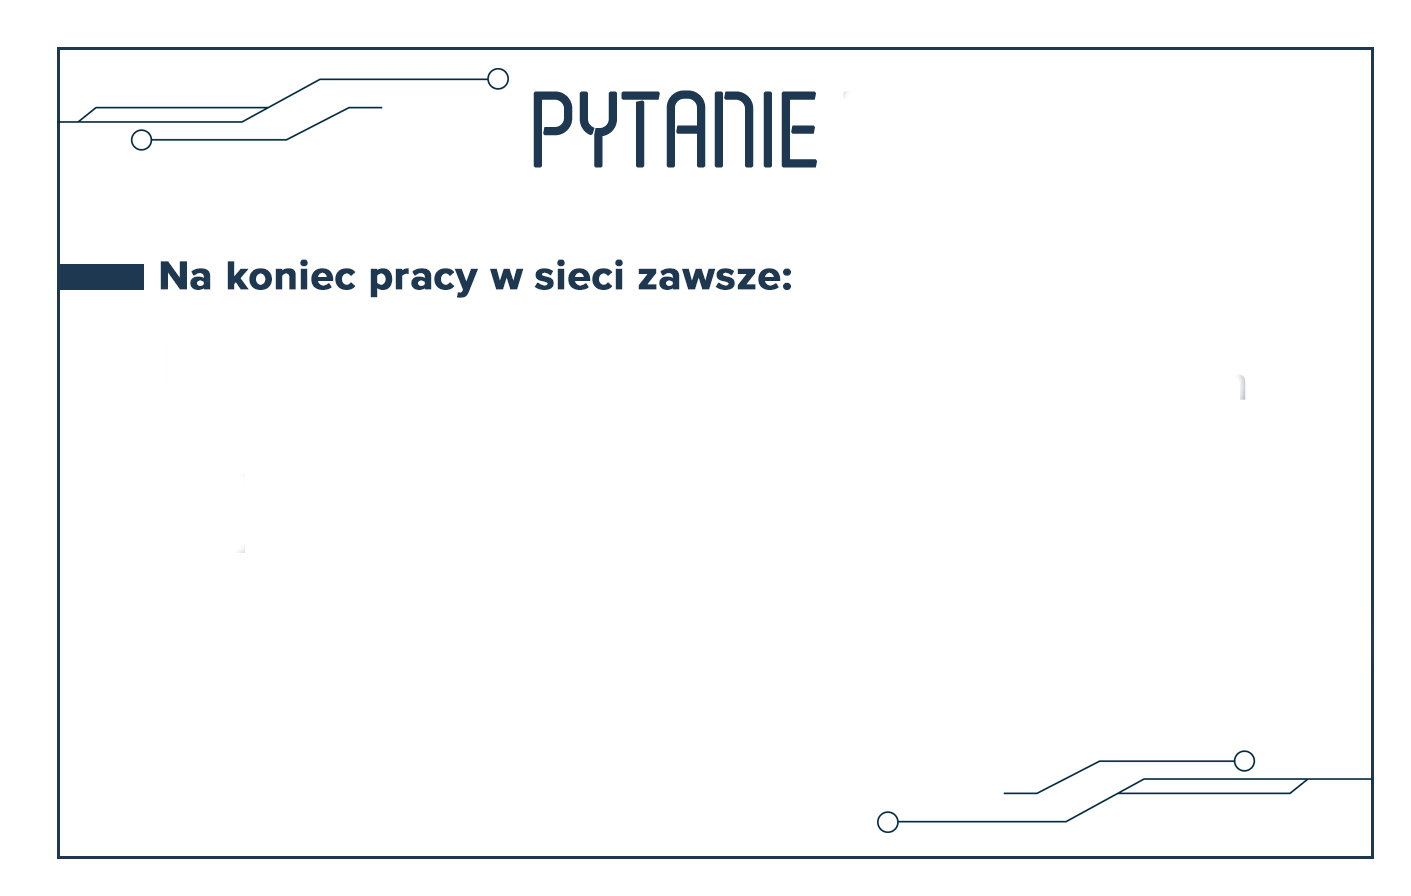
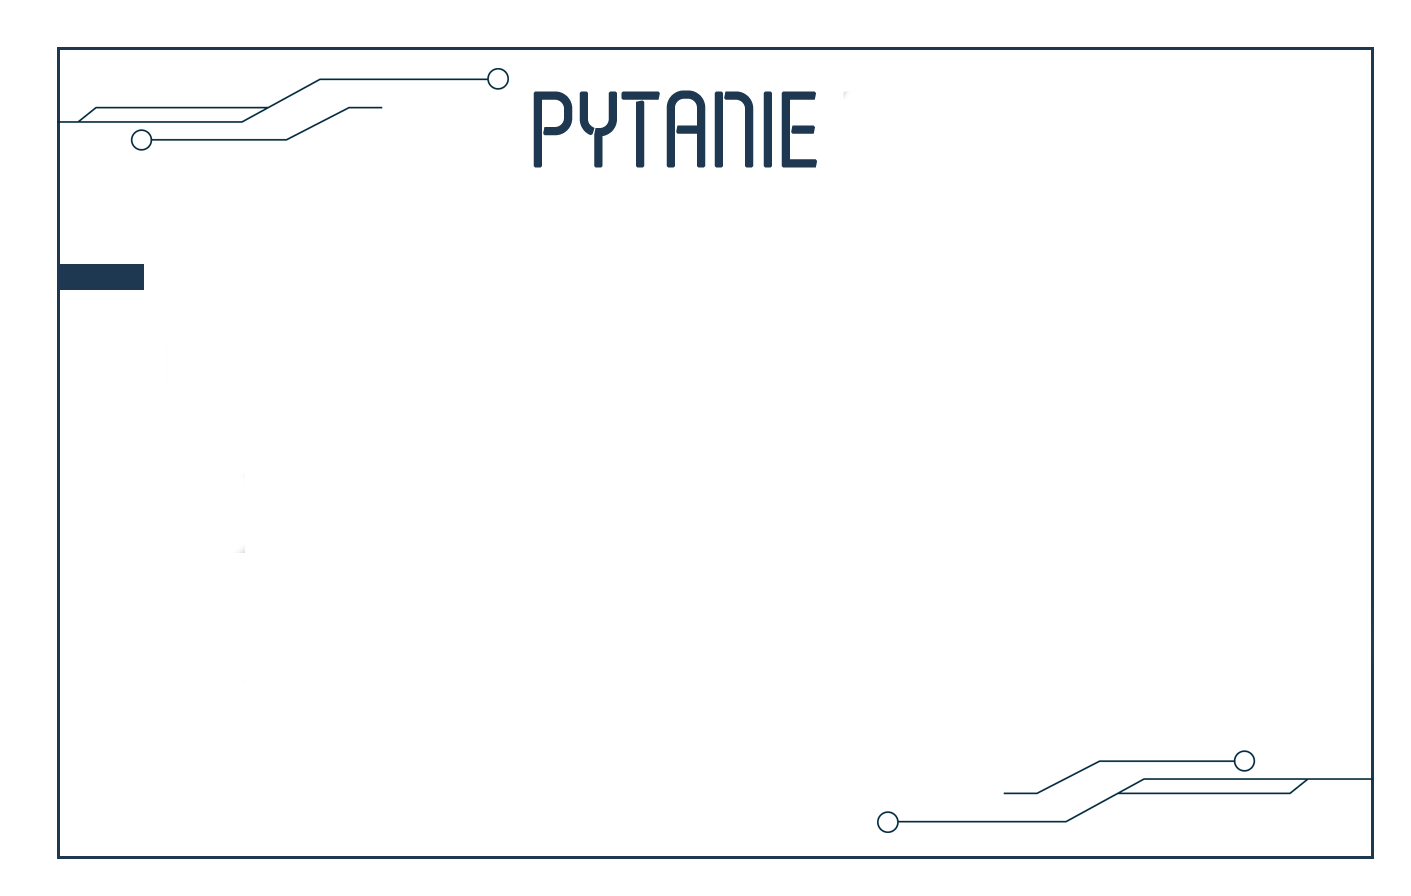
dodana treść pytań jako tekst

Changed region(s): [[0.0936, 0.2812, 0.5613, 0.3438]]

diff --git a/src/lib/quests-source.ts b/src/lib/quests-source.ts
@@ -3,6 +3,7 @@ interface quizz_pojedyncz {
   pytanie: string;
   odpowiedz: number;
   odpowiedz_text: any[][];
+  tresc: string;
 }
 
 export class Quests {
@@ -21,6 +22,7 @@ export class Quests {
           ["niebezpieczne", "bezpieczne", 2],
         ],
         odpowiedz: 1,
+        tresc: "Symbol kłódki        oznacza połączenie:",
       },
       {
         id: 2,
@@ -30,6 +32,7 @@ export class Quests {
           ["paczki", "informacje", 2],
         ],
         odpowiedz: 1,
+        tresc: "Interentem można przesyłać:",
       },
       {
         id: 4,
@@ -39,6 +42,7 @@ export class Quests {
           ["otwarta", "zamknięta", 2],
         ],
         odpowiedz: 1,
+        tresc: "Bezpieczne połączenie Wi-Fi to sieć:",
       },
       {
         id: 5,
@@ -56,6 +60,7 @@ export class Quests {
           ],
         ],
         odpowiedz: 1,
+        tresc: "Login ustala się:",
       },
       {
         id: 7,
@@ -65,6 +70,7 @@ export class Quests {
           ["anonimowość", "emocje", 2],
         ],
         odpowiedz: 1,
+        tresc: "Emotka           wyraża:",
       },
       {
         id: 9,
@@ -74,6 +80,7 @@ export class Quests {
           ["zawsze powinno być takie samo", "powinno być zmieniane często", 2],
         ],
         odpowiedz: 1,
+        tresc: "Hasło:",
       },
       {
         id: 10,
@@ -83,6 +90,7 @@ export class Quests {
           ["strony internetowej", "mailowym", 2],
         ],
         odpowiedz: 1,
+        tresc: "Symbolu @ używa się w adresie:",
       },
       {
         id: 12,
@@ -92,6 +100,7 @@ export class Quests {
           ["węża", "małpa", 2],
         ],
         odpowiedz: 1,
+        tresc: "W Polsce symbol @ oznacza:",
       },
       {
         id: 13,
@@ -101,6 +110,7 @@ export class Quests {
           ["ludzi", "komputery", 2],
         ],
         odpowiedz: 1,
+        tresc: "Sieć Wi-Fi łączy bezprzewodowo:",
       },
       {
         id: 15,
@@ -110,6 +120,7 @@ export class Quests {
           ["nie udostępniasz innym", "udostępniasz innym", 1],
         ],
         odpowiedz: 2,
+        tresc: "Swój login i hasło:",
       },
     ];
   }

diff --git a/src/lib/quests-source2.ts b/src/lib/quests-source2.ts
@@ -3,6 +3,7 @@ interface quizz_pojedyncz {
   pytanie: string;
   odpowiedz: number;
   odpowiedz_text: any[][];
+  tresc: string;
 }
 
 export class Quests2 {
@@ -35,6 +36,7 @@ export class Quests2 {
           ["w XXI wieku", "w XIX wieku", "w XX wieku", 3],
         ],
         odpowiedz: 1,
+        tresc: "Internet powstał:",
       },
       {
         id: 2,
@@ -60,6 +62,7 @@ export class Quests2 {
           ],
         ],
         odpowiedz: 1,
+        tresc: "W e-mailu od niezananej osoby jest link, w który:",
       },
       {
         id: 4,
@@ -85,6 +88,7 @@ export class Quests2 {
           ],
         ],
         odpowiedz: 1,
+        tresc: "Hasła do wielu aplikacji:",
       },
       {
         id: 5,
@@ -95,6 +99,7 @@ export class Quests2 {
           ["obraźliwy", "złośliwy", "miły", 3],
         ],
         odpowiedz: 1,
+        tresc: "Pod zdjęciem, które ci się podoba zostawiasz komentarz:",
       },
       {
         id: 7,
@@ -120,6 +125,7 @@ export class Quests2 {
           ],
         ],
         odpowiedz: 1,
+        tresc: "Gdy chcesz umieścić zdjęcie koleżanki w internecie, to:",
       },
       {
         id: 9,
@@ -130,6 +136,7 @@ export class Quests2 {
           ["bez szyfrowania", "bardzo szybkie", "szyfrowane", 3],
         ],
         odpowiedz: 1,
+        tresc: '"HTTPS"oznacza bezpieczne połączenie:',
       },
       {
         id: 10,
@@ -155,6 +162,7 @@ export class Quests2 {
           ],
         ],
         odpowiedz: 1,
+        tresc: "Na koniec pracy w siecie zawsze:",
       },
       {
         id: 12,
@@ -165,6 +173,7 @@ export class Quests2 {
           ["anonimowy", "nieznany", "uprzejmy", 3],
         ],
         odpowiedz: 1,
+        tresc: "Użytkownik w internecie powinien być:",
       },
       {
         id: 13,
@@ -190,6 +199,7 @@ export class Quests2 {
           ],
         ],
         odpowiedz: 1,
+        tresc: "Swój numer telefonu:",
       },
       {
         id: 15,
@@ -215,6 +225,7 @@ export class Quests2 {
           ],
         ],
         odpowiedz: 1,
+        tresc: "Nie wolno",
       },
     ];
   }

diff --git a/src/scenes/sceneQuizz.ts b/src/scenes/sceneQuizz.ts
@@ -4,6 +4,7 @@ import { Quests } from "../lib/quests-source";
 
 export class SceneQuizz extends Scene {
   plansza_pod_quizz: Phaser.GameObjects.Image;
+  tresc_pytanie: Phaser.GameObjects.Text;
   odpowiedz1_text: Phaser.GameObjects.Text;
   odpowiedz2_text: Phaser.GameObjects.Text;
   odpowiedz1: Phaser.GameObjects.Image;
@@ -42,7 +43,16 @@ export class SceneQuizz extends Scene {
 
     //dodawanie assetów
     this.plansza_pod_quizz = this.add
-      .image(700, 550, quizz_assets_data.tab_quizz[0].pytanie)
+      .image(700, 550, quizz_assets_data.tab_quizz[4].pytanie)
+      .setAlpha(0);
+
+    this.tresc_pytanie = this.add
+      .text(182, 355, quizz_assets_data.tab_quizz[4].tresc, {
+        fontSize: "42px",
+        fontStyle: "bold",
+        fontFamily: "Proxima Nova",
+        color: "#1d3850",
+      })
       .setAlpha(0);
 
     // używam tego fontu - https://www.cdnfonts.com/proxima-nova-condensed.font
@@ -125,6 +135,11 @@ export class SceneQuizz extends Scene {
             //quizz_assets_data.pokaz_zadanie(sceneB.krok_gracz1_na_planszy)[0]
             quizz_assets_data.pokaz_zadanie_2(sceneB.krok_gracz1_na_planszy)
               .pytanie
+          );
+          this.tresc_pytanie.setAlpha(1);
+          this.tresc_pytanie.setText(
+            quizz_assets_data.pokaz_zadanie_2(sceneB.krok_gracz1_na_planszy)
+              .tresc
           );
           this.odpowiedz1_text.setText(
             quizz_assets_data.pokaz_zadanie_2(sceneB.krok_gracz1_na_planszy)
@@ -241,6 +256,7 @@ export class SceneQuizz extends Scene {
       this.odpowiedz1.setAlpha(0);
       this.odpowiedz2.setAlpha(0);
       this.zaznaczenie.setAlpha(0);
+      this.tresc_pytanie.setAlpha(0);
 
       const powrot_emiter = this.scene.scene.events;
       powrot_emiter.emit("powrot-do-gry1");

diff --git a/src/scenes/sceneQuizz2.ts b/src/scenes/sceneQuizz2.ts
@@ -4,6 +4,7 @@ import { Quests2 } from "../lib/quests-source2";
 
 export class SceneQuizz2 extends Scene {
   plansza_pod_quizz: Phaser.GameObjects.Image;
+  tresc_pytanie: Phaser.GameObjects.Text;
   odpowiedz1_text: Phaser.GameObjects.Text;
   odpowiedz2_text: Phaser.GameObjects.Text;
   odpowiedz3_text: Phaser.GameObjects.Text;
@@ -45,6 +46,15 @@ export class SceneQuizz2 extends Scene {
     //dodawanie assetów
     this.plansza_pod_quizz = this.add
       .image(700, 550, quizz_assets_data.tab_quizz[0].pytanie)
+      .setAlpha(0);
+
+    this.tresc_pytanie = this.add
+      .text(182, 355, quizz_assets_data.tab_quizz[0].tresc, {
+        fontSize: "42px",
+        fontStyle: "bold",
+        fontFamily: "Proxima Nova",
+        color: "#1d3850",
+      })
       .setAlpha(0);
 
     // używam tego fontu - https://www.cdnfonts.com/proxima-nova-condensed.font
@@ -140,6 +150,12 @@ export class SceneQuizz2 extends Scene {
             quizz_assets_data.pokaz_zadanie_2(sceneB.krok_gracz1_na_planszy)
               .pytanie
           );
+          this.tresc_pytanie.setAlpha(1);
+          this.tresc_pytanie.setText(
+            quizz_assets_data.pokaz_zadanie_2(sceneB.krok_gracz1_na_planszy)
+              .tresc
+          );
+
           this.odpowiedz1_text.setText(
             quizz_assets_data.pokaz_zadanie_2(sceneB.krok_gracz1_na_planszy)
               .odpowiedz_text[nr_zestawu][0]
@@ -306,6 +322,7 @@ export class SceneQuizz2 extends Scene {
       this.odpowiedz3.setAlpha(0);
       this.zaznaczenie.setAlpha(0);
       this.ramka_odpowiedz.setAlpha(0);
+      this.tresc_pytanie.setAlpha(0);
 
       const powrot_emiter = this.scene.scene.events;
       powrot_emiter.emit("powrot-do-gry1");

diff --git a/src/scenes/preload.ts b/src/scenes/preload.ts
@@ -48,6 +48,6 @@ export default class Preload extends Scene {
   }
 
   create(): void {
-    this.scene.start("GameSceneStart");
+    this.scene.start("GameSceneMain2");
   }
 }
